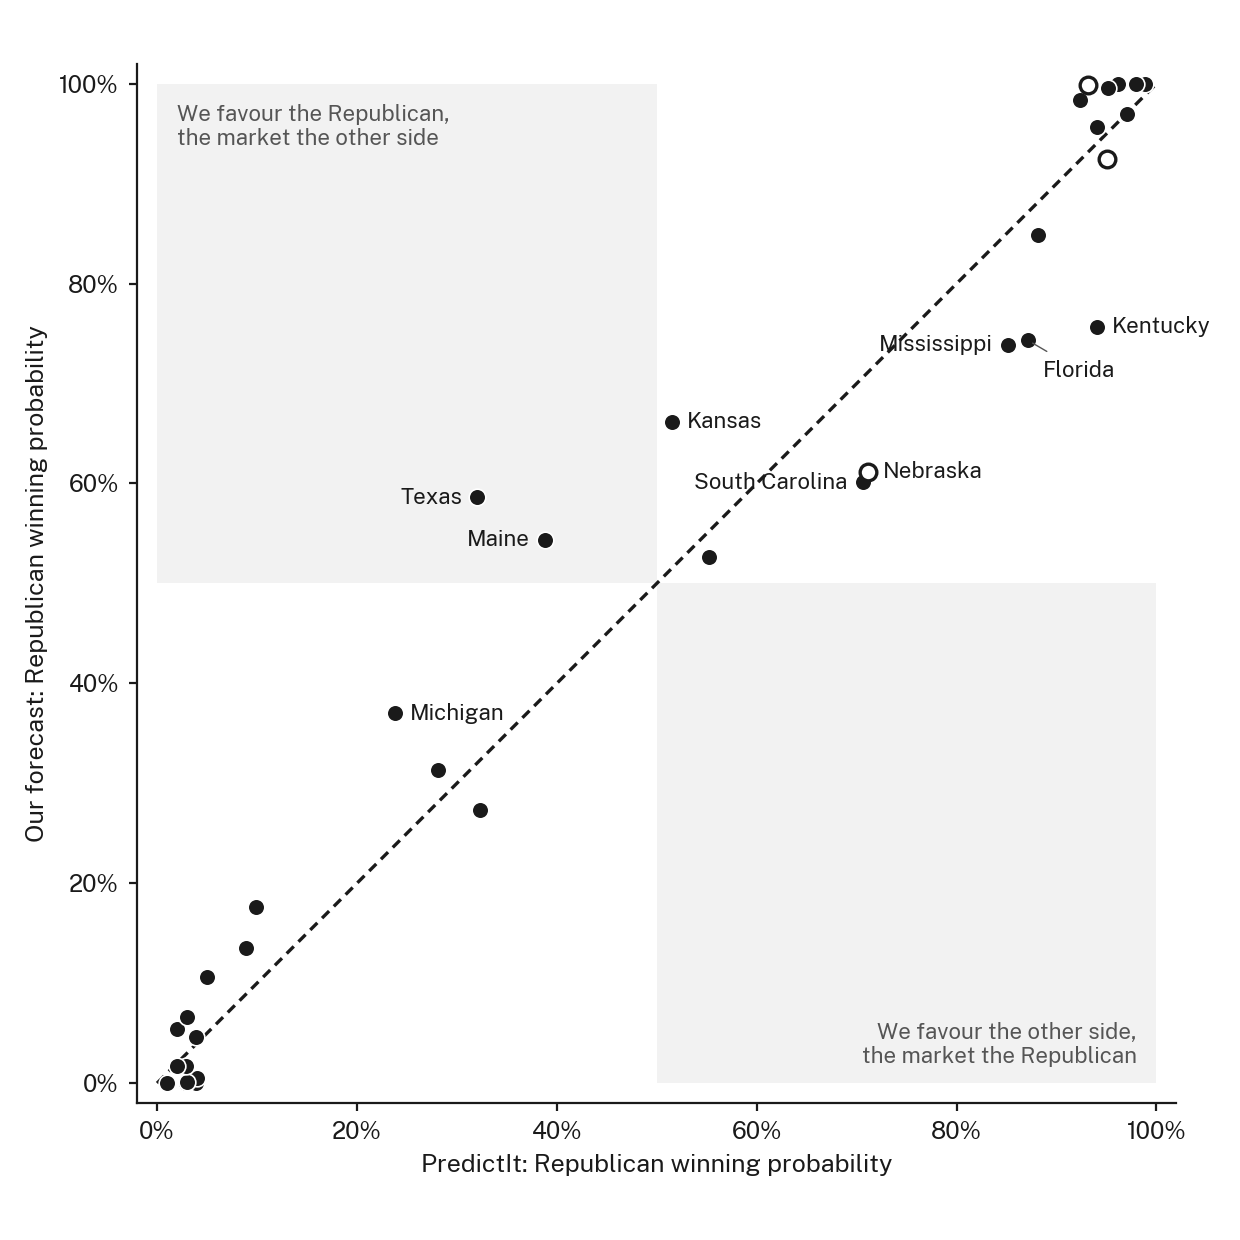
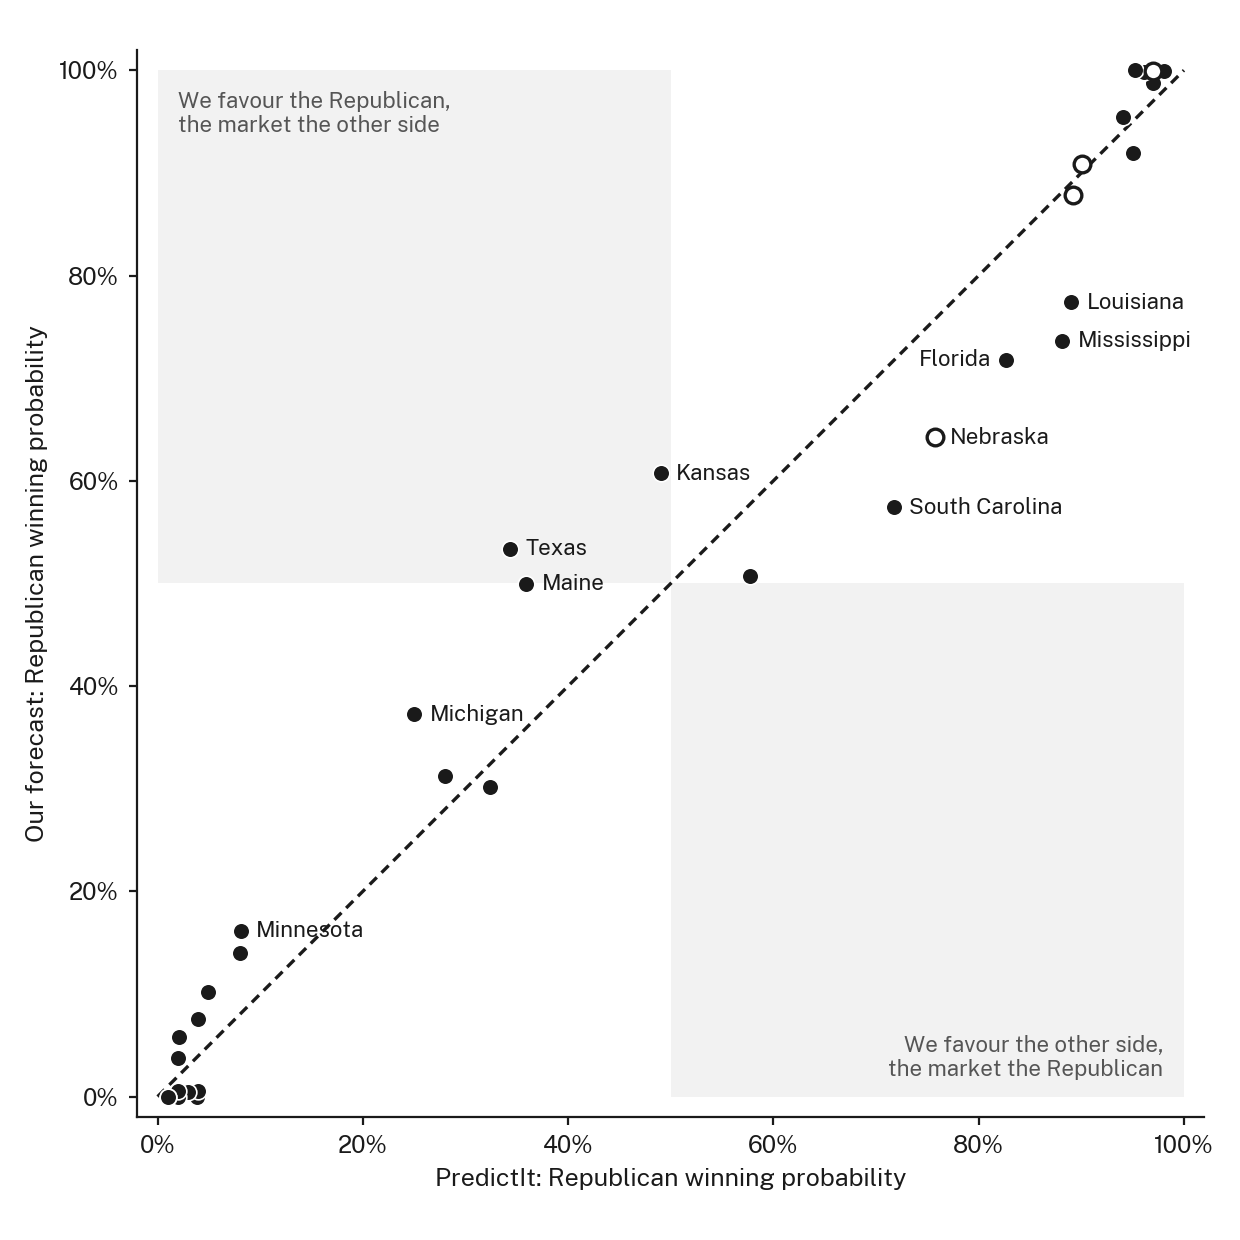
Render the website (docs/) with the 31 October market comparison

diff --git a/docs/index.html b/docs/index.html
@@ -2123,6 +2123,14 @@ Table view
 <td style="text-align: right;">39</td>
 <td style="text-align: right;">33</td>
 </tr>
+<tr class="odd">
+<td>31 October</td>
+<td style="text-align: right;">35</td>
+<td style="text-align: right;">0.98</td>
+<td style="text-align: right;">5.7</td>
+<td style="text-align: right;">37</td>
+<td style="text-align: right;">29</td>
+</tr>
 </tbody>
 </table>
 <div class="chart-note">
@@ -2130,7 +2138,7 @@ Table view
 </div>
 <details>
 <summary>
-Table view: every race, 29 October
+Table view: every race, 31 October
 </summary>
 <table class="caption-top table">
 <colgroup>
@@ -2149,40 +2157,40 @@ Table view: every race, 29 October
 </thead>
 <tbody>
 <tr class="odd">
-<td>Kentucky</td>
-<td style="text-align: right;">76</td>
-<td style="text-align: right;">94</td>
-<td style="text-align: right;">−18</td>
-</tr>
-<tr class="even">
-<td>Florida</td>
-<td style="text-align: right;">74</td>
-<td style="text-align: right;">87</td>
-<td style="text-align: right;">−13</td>
-</tr>
-<tr class="odd">
 <td>Mississippi</td>
 <td style="text-align: right;">74</td>
-<td style="text-align: right;">85</td>
-<td style="text-align: right;">−11</td>
+<td style="text-align: right;">88</td>
+<td style="text-align: right;">−14</td>
 </tr>
 <tr class="even">
 <td>South Carolina</td>
-<td style="text-align: right;">60</td>
-<td style="text-align: right;">71</td>
-<td style="text-align: right;">−10</td>
+<td style="text-align: right;">57</td>
+<td style="text-align: right;">72</td>
+<td style="text-align: right;">−14</td>
 </tr>
 <tr class="odd">
-<td>Nebraska (I)</td>
-<td style="text-align: right;">61</td>
-<td style="text-align: right;">71</td>
-<td style="text-align: right;">−10</td>
+<td>Louisiana</td>
+<td style="text-align: right;">77</td>
+<td style="text-align: right;">89</td>
+<td style="text-align: right;">−12</td>
 </tr>
 <tr class="even">
-<td>Alaska</td>
-<td style="text-align: right;">27</td>
-<td style="text-align: right;">32</td>
-<td style="text-align: right;">−5</td>
+<td>Nebraska (I)</td>
+<td style="text-align: right;">64</td>
+<td style="text-align: right;">76</td>
+<td style="text-align: right;">−12</td>
+</tr>
+<tr class="odd">
+<td>Florida</td>
+<td style="text-align: right;">72</td>
+<td style="text-align: right;">83</td>
+<td style="text-align: right;">−11</td>
+</tr>
+<tr class="even">
+<td>Iowa</td>
+<td style="text-align: right;">51</td>
+<td style="text-align: right;">58</td>
+<td style="text-align: right;">−7</td>
 </tr>
 <tr class="odd">
 <td>Rhode Island</td>
@@ -2197,39 +2205,39 @@ Table view: every race, 29 October
 <td style="text-align: right;">−3</td>
 </tr>
 <tr class="odd">
-<td>Louisiana</td>
-<td style="text-align: right;">85</td>
-<td style="text-align: right;">88</td>
-<td style="text-align: right;">−3</td>
-</tr>
-<tr class="even">
-<td>Massachusetts</td>
-<td style="text-align: right;">&lt;1</td>
-<td style="text-align: right;">3</td>
-<td style="text-align: right;">−3</td>
-</tr>
-<tr class="odd">
-<td>Oregon</td>
-<td style="text-align: right;">&lt;1</td>
-<td style="text-align: right;">3</td>
-<td style="text-align: right;">−3</td>
-</tr>
-<tr class="even">
-<td>Iowa</td>
-<td style="text-align: right;">53</td>
-<td style="text-align: right;">55</td>
-<td style="text-align: right;">−3</td>
-</tr>
-<tr class="odd">
-<td>South Dakota (I)</td>
+<td>Kentucky</td>
 <td style="text-align: right;">92</td>
 <td style="text-align: right;">95</td>
 <td style="text-align: right;">−3</td>
 </tr>
 <tr class="even">
 <td>New Jersey</td>
-<td style="text-align: right;">2</td>
+<td style="text-align: right;">&lt;1</td>
 <td style="text-align: right;">3</td>
+<td style="text-align: right;">−2</td>
+</tr>
+<tr class="odd">
+<td>Alaska</td>
+<td style="text-align: right;">30</td>
+<td style="text-align: right;">32</td>
+<td style="text-align: right;">−2</td>
+</tr>
+<tr class="even">
+<td>Oregon</td>
+<td style="text-align: right;">&lt;1</td>
+<td style="text-align: right;">2</td>
+<td style="text-align: right;">−2</td>
+</tr>
+<tr class="odd">
+<td>Colorado</td>
+<td style="text-align: right;">1</td>
+<td style="text-align: right;">2</td>
+<td style="text-align: right;">−1</td>
+</tr>
+<tr class="even">
+<td>Montana (I)</td>
+<td style="text-align: right;">88</td>
+<td style="text-align: right;">89</td>
 <td style="text-align: right;">−1</td>
 </tr>
 <tr class="odd">
@@ -2239,27 +2247,39 @@ Table view: every race, 29 October
 <td style="text-align: right;">−1</td>
 </tr>
 <tr class="even">
-<td>Colorado</td>
-<td style="text-align: right;">2</td>
-<td style="text-align: right;">2</td>
-<td style="text-align: right;">0</td>
+<td>Massachusetts</td>
+<td style="text-align: right;">&lt;1</td>
+<td style="text-align: right;">1</td>
+<td style="text-align: right;">−1</td>
 </tr>
 <tr class="odd">
-<td>Tennessee</td>
-<td style="text-align: right;">97</td>
-<td style="text-align: right;">97</td>
-<td style="text-align: right;">0</td>
+<td>South Dakota (I)</td>
+<td style="text-align: right;">91</td>
+<td style="text-align: right;">90</td>
+<td style="text-align: right;">+1</td>
 </tr>
 <tr class="even">
-<td>Illinois</td>
-<td style="text-align: right;">5</td>
-<td style="text-align: right;">4</td>
+<td>Arkansas</td>
+<td style="text-align: right;">95</td>
+<td style="text-align: right;">94</td>
 <td style="text-align: right;">+1</td>
 </tr>
 <tr class="odd">
-<td>Arkansas</td>
-<td style="text-align: right;">96</td>
-<td style="text-align: right;">94</td>
+<td>Alabama</td>
+<td style="text-align: right;">99</td>
+<td style="text-align: right;">97</td>
+<td style="text-align: right;">+2</td>
+</tr>
+<tr class="even">
+<td>Virginia</td>
+<td style="text-align: right;">4</td>
+<td style="text-align: right;">2</td>
+<td style="text-align: right;">+2</td>
+</tr>
+<tr class="odd">
+<td>Tennessee</td>
+<td style="text-align: right;">99</td>
+<td style="text-align: right;">97</td>
 <td style="text-align: right;">+2</td>
 </tr>
 <tr class="even">
@@ -2269,88 +2289,82 @@ Table view: every race, 29 October
 <td style="text-align: right;">+2</td>
 </tr>
 <tr class="odd">
+<td>Idaho (I)</td>
+<td style="text-align: right;">&gt;99</td>
+<td style="text-align: right;">97</td>
+<td style="text-align: right;">+3</td>
+</tr>
+<tr class="even">
 <td>Ohio</td>
 <td style="text-align: right;">31</td>
 <td style="text-align: right;">28</td>
 <td style="text-align: right;">+3</td>
 </tr>
-<tr class="even">
-<td>Virginia</td>
-<td style="text-align: right;">5</td>
-<td style="text-align: right;">2</td>
-<td style="text-align: right;">+3</td>
-</tr>
 <tr class="odd">
 <td>North Carolina</td>
-<td style="text-align: right;">7</td>
-<td style="text-align: right;">3</td>
+<td style="text-align: right;">8</td>
+<td style="text-align: right;">4</td>
 <td style="text-align: right;">+4</td>
 </tr>
 <tr class="even">
-<td>Wyoming</td>
-<td style="text-align: right;">&gt;99</td>
-<td style="text-align: right;">96</td>
+<td>Illinois</td>
+<td style="text-align: right;">6</td>
+<td style="text-align: right;">2</td>
 <td style="text-align: right;">+4</td>
 </tr>
 <tr class="odd">
 <td>Oklahoma</td>
 <td style="text-align: right;">&gt;99</td>
-<td style="text-align: right;">95</td>
+<td style="text-align: right;">96</td>
 <td style="text-align: right;">+4</td>
 </tr>
 <tr class="even">
-<td>New Hampshire</td>
-<td style="text-align: right;">14</td>
-<td style="text-align: right;">9</td>
+<td>Wyoming</td>
+<td style="text-align: right;">&gt;99</td>
+<td style="text-align: right;">95</td>
 <td style="text-align: right;">+5</td>
 </tr>
 <tr class="odd">
 <td>Georgia</td>
-<td style="text-align: right;">11</td>
+<td style="text-align: right;">10</td>
 <td style="text-align: right;">5</td>
-<td style="text-align: right;">+6</td>
+<td style="text-align: right;">+5</td>
 </tr>
 <tr class="even">
-<td>Alabama</td>
-<td style="text-align: right;">98</td>
-<td style="text-align: right;">92</td>
+<td>New Hampshire</td>
+<td style="text-align: right;">14</td>
+<td style="text-align: right;">8</td>
 <td style="text-align: right;">+6</td>
 </tr>
 <tr class="odd">
-<td>Idaho (I)</td>
-<td style="text-align: right;">&gt;99</td>
-<td style="text-align: right;">93</td>
-<td style="text-align: right;">+7</td>
+<td>Minnesota</td>
+<td style="text-align: right;">16</td>
+<td style="text-align: right;">8</td>
+<td style="text-align: right;">+8</td>
 </tr>
 <tr class="even">
-<td>Minnesota</td>
-<td style="text-align: right;">18</td>
-<td style="text-align: right;">10</td>
-<td style="text-align: right;">+8</td>
+<td>Kansas</td>
+<td style="text-align: right;">61</td>
+<td style="text-align: right;">49</td>
+<td style="text-align: right;">+12</td>
 </tr>
 <tr class="odd">
 <td>Michigan</td>
 <td style="text-align: right;">37</td>
-<td style="text-align: right;">24</td>
-<td style="text-align: right;">+13</td>
+<td style="text-align: right;">25</td>
+<td style="text-align: right;">+12</td>
 </tr>
 <tr class="even">
-<td>Kansas</td>
-<td style="text-align: right;">66</td>
-<td style="text-align: right;">51</td>
-<td style="text-align: right;">+15</td>
+<td>Maine</td>
+<td style="text-align: right;">50</td>
+<td style="text-align: right;">36</td>
+<td style="text-align: right;">+14</td>
 </tr>
 <tr class="odd">
-<td>Maine</td>
-<td style="text-align: right;">54</td>
-<td style="text-align: right;">39</td>
-<td style="text-align: right;">+16</td>
-</tr>
-<tr class="even">
 <td>Texas</td>
-<td style="text-align: right;">59</td>
-<td style="text-align: right;">32</td>
-<td style="text-align: right;">+27</td>
+<td style="text-align: right;">53</td>
+<td style="text-align: right;">34</td>
+<td style="text-align: right;">+19</td>
 </tr>
 </tbody>
 </table>
